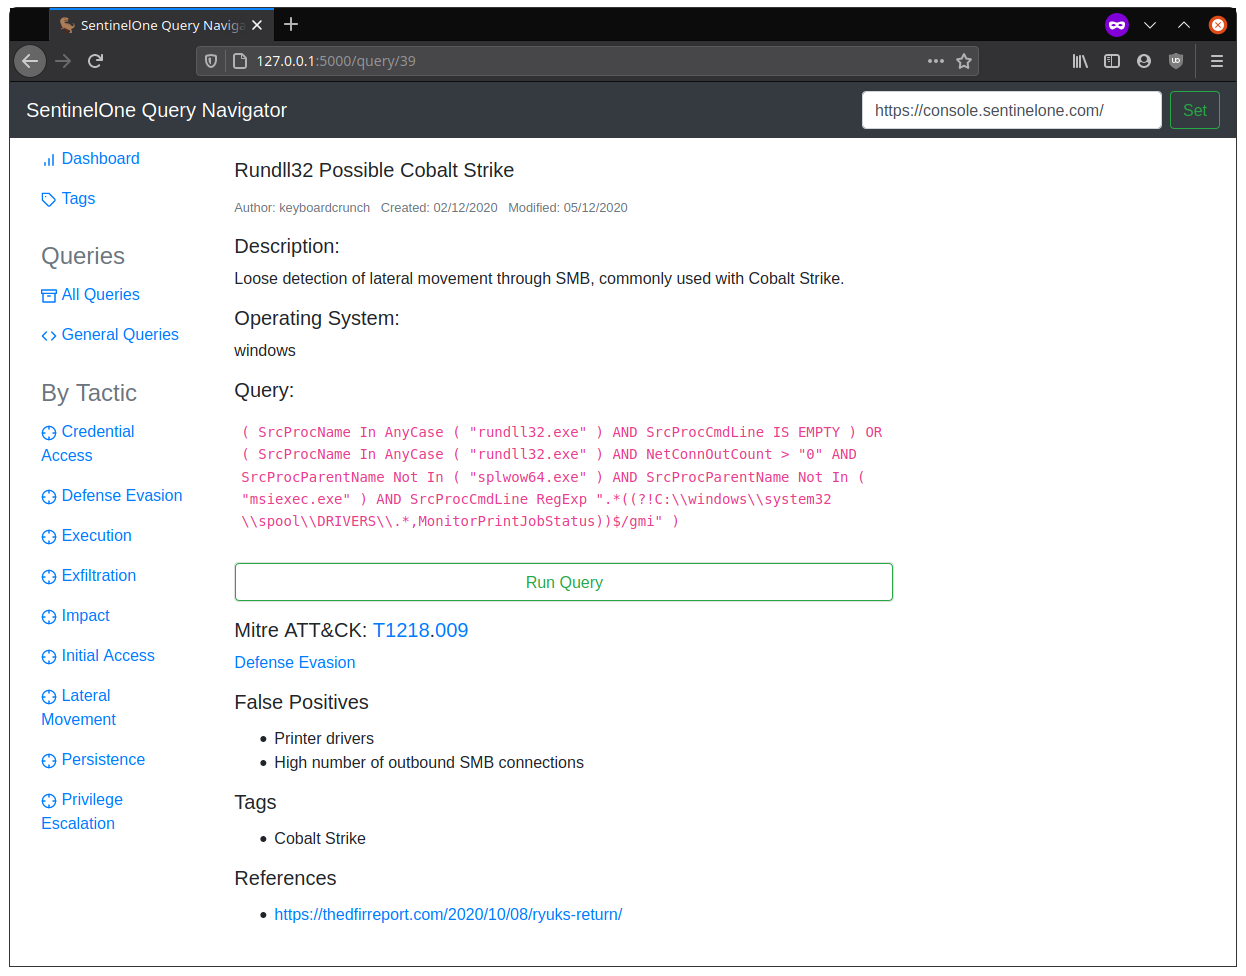
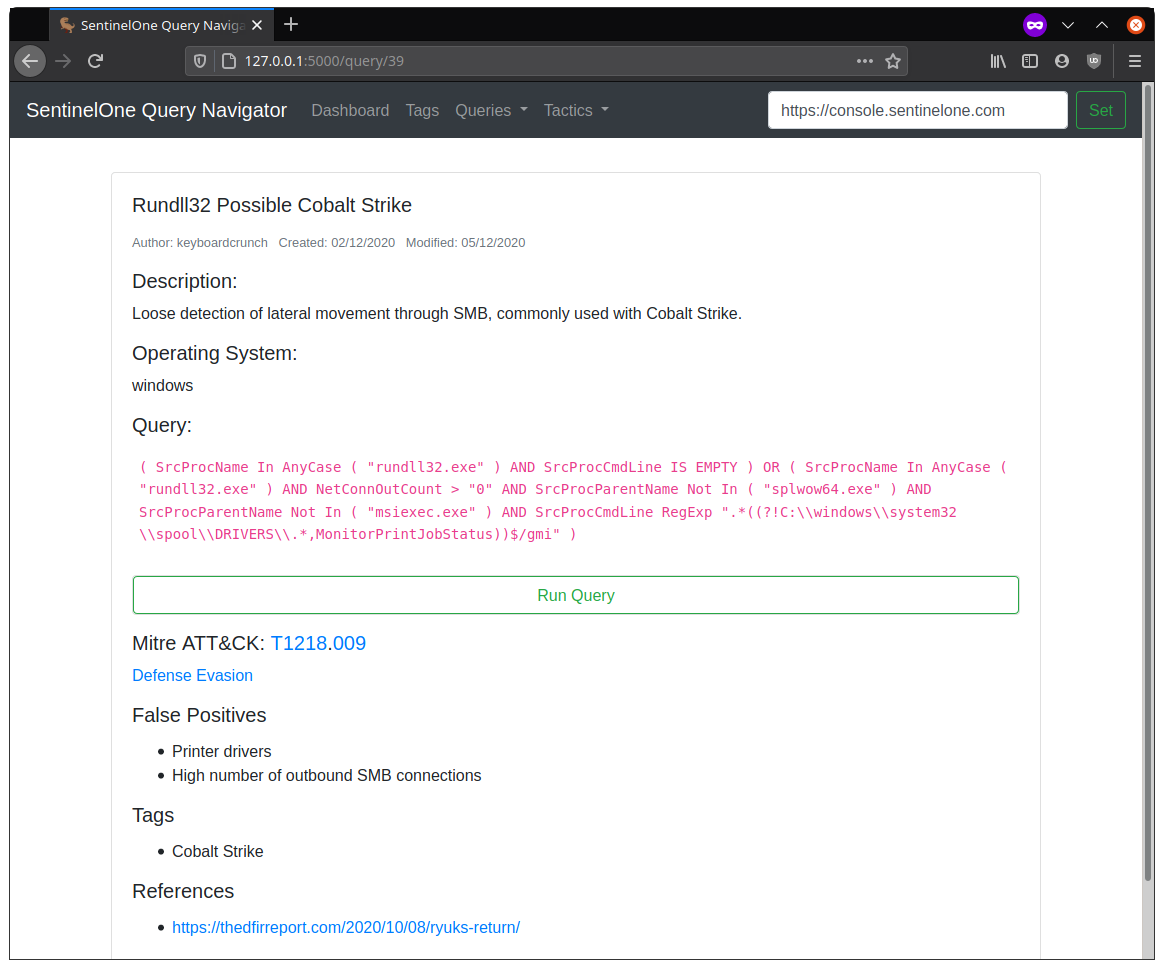
tweaked css and updated screenshots

diff --git a/web/static/css/custom.css b/web/static/css/custom.css
@@ -41,3 +41,7 @@ html {
   .form-inline .form-control {
     width: 300px;
   }
+
+  .jumbotron {
+      padding: 0rem 0rem;
+  }
